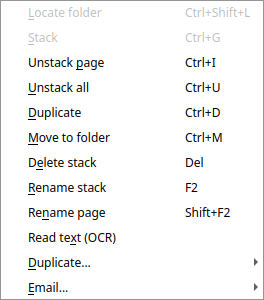
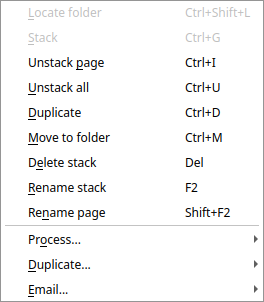
desktop: Shorten the stack menu, with a key for every item
The menu for a stack has grown to thirteen items before its submenus,
and several of them can only be reached through it, since they have no
shortcut.

Move the things which work on what is in a stack, rather than on
where it is or what it is called, into a Process submenu: reading its
text, the assistant's name and split, and reversing its pages. Give a
shortcut to each item which had none: reading text, suggesting a name,
splitting into documents, reversing pages, copying the odd or the even
pages, and unfolding a booklet.

Take the pictures of the menus again for the user guide, with one of
the new submenu.

Co-developed-by: Claude Fable 5.2 <noreply@anthropic.com>
Claude-Session: https://claude.ai/code/session_01BxfLL7T8McSpFMMxYekitE

diff --git a/test/test_desktopui.cpp b/test/test_desktopui.cpp
@@ -7,6 +7,8 @@
 #include <QLabel>
 #include <QMessageBox>
 #include <QSemaphore>
+#include <QMenu>
+#include <QContextMenuEvent>
 #include <QLineEdit>
 #include <QPushButton>
 #include <QScreen>
@@ -2688,6 +2690,114 @@ void TestDesktopUi::testBackgroundJobs()
    // and is gone from the list when it finishes
    QTRY_VERIFY(work->jobsListed().isEmpty());
    QVERIFY(!stop->isEnabled());
+}
+
+/* The stack menu is kept short: what works on the contents of a stack
+   is in a submenu. Every item has a shortcut, and none is used twice.
+   The Background work window is opened from the View menu */
+void TestDesktopUi::testStackMenu()
+{
+   QModelIndex repo_ind;
+   Desktopmodel *model;
+   Mainwindow me;
+
+   setupShown(&me, model, repo_ind);
+
+   Desktopwidget *desktop = me.getDesktop();
+   Desktopview *view = desktop->getView();
+
+   QSettings().remove("assistant");
+   clickItem(view, 0);
+
+   /* the menu waits for a choice in a loop of its own, so look at it and
+      close it from a timer. This gives what it shows, with a submenu's
+      items after its title, in brackets */
+   auto shown = [&]() -> QStringList {
+      QStringList items;
+      bool seen = false;
+      QTimer timer;
+
+      connect(&timer, &QTimer::timeout, &me, [&] {
+         for (QWidget *top : QApplication::topLevelWidgets()) {
+            QMenu *menu = qobject_cast<QMenu *>(top);
+
+            if (!menu || !menu->isVisible())
+               continue;
+            seen = true;
+            for (QAction *action : menu->actions()) {
+               if (action->isSeparator() || !action->isVisible())
+                  continue;
+
+               QString text = action->text().remove('&');
+
+               if (!action->menu()) {
+                  items << text;
+                  continue;
+               }
+
+               QStringList sub;
+
+               for (QAction *child : action->menu()->actions())
+                  if (!child->isSeparator() && child->isVisible())
+                     sub << child->text().remove('&');
+               items << text + " [" + sub.join(", ") + "]";
+            }
+            timer.stop();
+            menu->close();
+            return;
+         }
+      });
+      timer.start(50);
+
+      QPoint pos = view->visualRect(itemIndex(view, 0)).center();
+      QContextMenuEvent event(QContextMenuEvent::Mouse, pos,
+                              view->viewport()->mapToGlobal(pos));
+
+      QApplication::sendEvent(view->viewport(), &event);
+      return seen ? items : QStringList("no menu");
+   };
+
+   QCOMPARE(shown(), QStringList({
+      "Locate folder", "Stack", "Unstack page", "Unstack all", "Duplicate",
+      "Move to folder", "Delete stack", "Rename stack", "Rename page",
+      "Process... [Read text (OCR), Reverse pages]",
+      "Duplicate... [Duplicate page, as Max, as PDF, even pages only, "
+         "odd pages only, as JPEG, Unfold booklet]",
+      "Email... [Files, as Max, as PDF, Copy as PDF]"}));
+
+   // with the assistant on, what it does is under Process too
+   Assistant::setEnabled(true);
+   QVERIFY(shown().contains("Process... [Read text (OCR), Suggest name, "
+                            "Split into documents..., Reverse pages]"));
+   QSettings().remove("assistant");
+
+   // every item has a shortcut, which nothing else in the window has
+   QHash<QString, QStringList> used;
+
+   for (QAction *action : me.findChildren<QAction *>())
+      if (!action->shortcut().isEmpty() && !action->text().isEmpty())
+         used[action->shortcut().toString()] << action->text().remove('&');
+
+   int count = 0;
+
+   for (QAction *action : view->actions()) {
+      if (action->text().isEmpty())
+         continue;
+
+      QString key = action->shortcut().toString();
+      QString name = action->text().remove('&');
+
+      QVERIFY2(!key.isEmpty(), qPrintable(name + " has no shortcut"));
+      QVERIFY2(used.value(key) == QStringList(name),
+               qPrintable(key + " is used by " + used.value(key).join(", ")));
+      count++;
+   }
+   QVERIFY(count >= 20);
+   QCOMPARE(desktop->_act_read_text->shortcut(), QKeySequence("Ctrl+T"));
+   QCOMPARE(desktop->_act_suggest_name->shortcut(), QKeySequence("Ctrl+F2"));
+   QCOMPARE(desktop->_act_suggest_split->shortcut(),
+            QKeySequence("Ctrl+Shift+U"));
+   QCOMPARE(desktop->_act_reverse->shortcut(), QKeySequence("Ctrl+R"));
 }
 
 void TestDesktopUi::testSuggestName()

diff --git a/desktopwidget.cpp b/desktopwidget.cpp
@@ -418,22 +418,26 @@ void Desktopwidget::addActions(void)
    addAction (_act_stack, "&Stack", SLOT(stackPages()), "Ctrl+G");
    addAction (_act_unstack_page, "Unstack &page", SLOT(unstackPage()), "Ctrl+I");
    addAction (_act_unstack_all, "&Unstack all", SLOT(unstackStacks ()), "Ctrl+U");
-   addAction (_act_reverse, "Re&verse pages", SLOT (reversePages ()), "");
+   addAction (_act_reverse, "Re&verse pages", SLOT (reversePages ()), "Ctrl+R");
    addAction (_act_rename_stack, "&Rename stack", SLOT(renameStack ()), "F2");  //"F2,Ctrl+R");
    addAction (_act_rename_page, "Re&name page", SLOT (renamePage ()), "Shift+F2");
-   addAction (_act_suggest_name, "Su&ggest name", SLOT (suggestName ()), "");
+   addAction (_act_suggest_name, "Su&ggest name", SLOT (suggestName ()),
+              "Ctrl+F2");
    addAction (_act_suggest_split, "Spli&t into documents...",
-              SLOT (suggestSplit ()), "");
-   addAction (_act_read_text, "Read te&xt (OCR)", SLOT (readText ()), "");
+              SLOT (suggestSplit ()), "Ctrl+Shift+U");
+   addAction (_act_read_text, "Read te&xt (OCR)", SLOT (readText ()), "Ctrl+T");
 
    addAction (_act_duplicate_page, "Duplicate p&age", SLOT (duplicatePage ()), "Ctrl+Shift+I");
    addAction (_act_duplicate_max, "as &Max", SLOT (duplicateMax ()), "Ctrl+Shift+D");
    addAction (_act_duplicate_pdf, "as &PDF", SLOT (duplicatePdf ()), "Ctrl+Shift+P");
    //    addAction (_act_duplicate_tiff, "as &Tiff", SLOT (duplicateTiff ()), "Ctrl+Shift+T");
-   addAction (_act_duplicate_odd, "&odd pages only", SLOT (duplicateOdd ()), "");
-   addAction (_act_duplicate_even, "&even pages only", SLOT (duplicateEven ()), "");
+   addAction (_act_duplicate_odd, "&odd pages only", SLOT (duplicateOdd ()),
+              "Ctrl+Shift+O");
+   addAction (_act_duplicate_even, "&even pages only", SLOT (duplicateEven ()),
+              "Ctrl+Shift+N");
    addAction (_act_duplicate_jpeg, "as &JPEG", SLOT (duplicateJpeg ()), "Ctrl+Shift+J");
-   addAction (_act_unfold_booklet, "Unfold &booklet", SLOT (unfoldBooklet ()), "");
+   addAction (_act_unfold_booklet, "Unfold &booklet", SLOT (unfoldBooklet ()),
+              "Ctrl+Shift+B");
 
    addAction (_act_email, "&Files", SLOT (email ()), "Ctrl+E");
    addAction (_act_email_pdf, "as &PDF", SLOT (emailPdf ()), "Ctrl+Shift+E");
@@ -1714,18 +1718,26 @@ void Desktopwidget::slotPopupMenu (QModelIndex &index)
    context_menu->addAction (_act_stack);
    context_menu->addAction (_act_unstack_page);
    context_menu->addAction (_act_unstack_all);
-   context_menu->addAction (_act_reverse);
    context_menu->addAction (_act_duplicate);
 
    context_menu->addAction (_act_move);
    context_menu->addAction (_act_delete);
    context_menu->addAction (_act_rename_stack);
    context_menu->addAction (_act_rename_page);
-   context_menu->addAction (_act_suggest_name);
-   context_menu->addAction (_act_suggest_split);
-   context_menu->addAction (_act_read_text);
 
-   QMenu *submenu = context_menu->addMenu (tr ("&Duplicate..."));
+   /* the things which work on what is in a stack, rather than on where
+      it is or what it is called, have a menu of their own, to keep this
+      one short. Those which the assistant does are there when it is on */
+   context_menu->addSeparator ();
+
+   QMenu *submenu = context_menu->addMenu (tr ("Pr&ocess..."));
+   submenu->setObjectName ("processMenu");
+   submenu->addAction (_act_read_text);
+   submenu->addAction (_act_suggest_name);
+   submenu->addAction (_act_suggest_split);
+   submenu->addAction (_act_reverse);
+
+   submenu = context_menu->addMenu (tr ("&Duplicate..."));
    submenu->addAction (_act_duplicate_page);
    submenu->addAction (_act_duplicate_max);
    submenu->addAction (_act_duplicate_pdf);

diff --git a/test/test_screenshots.cpp b/test/test_screenshots.cpp
@@ -614,6 +614,21 @@ void TestScreenshots::testDuplicateMenu ()
              "duplicate-menu", "Duplicate...");
    }
 
+void TestScreenshots::testProcessMenu ()
+   {
+   Mainwindow me;
+
+   open (&me, "bills/2026/03mar", "power bill.max");
+   if (QTest::currentTestFailed ())
+      return;
+
+   Desktopview *view = me.getDesktop ()->getView ();
+
+   saveMenu (view->viewport (),
+             view->visualRect (view->currentIndex ()).center (),
+             "process-menu", "Process...");
+   }
+
 void TestScreenshots::testFolderMenu ()
    {
    Mainwindow me;

diff --git a/test/test_desktopui.h b/test/test_desktopui.h
@@ -199,6 +199,9 @@ private slots:
    //! work which takes a while is listed, and stopped, in one window
    void testBackgroundJobs();
 
+   //! the stack menu is short, and every item in it has a shortcut
+   void testStackMenu();
+
    //! A name from the assistant is offered in the name editor
    void testSuggestName();
 

diff --git a/test/test_screenshots.h b/test/test_screenshots.h
@@ -62,6 +62,9 @@ private slots:
    //! The ways of duplicating a stack, from the stack menu
    void testDuplicateMenu();
 
+   //! The things which work on what is in a stack, from the stack menu
+   void testProcessMenu();
+
    //! Moving a stack to another folder, chosen by part of its name
    void testMoveToFolder();
 

diff --git a/doc/filing.rst b/doc/filing.rst
@@ -28,9 +28,6 @@ with it, or with all the stacks selected:
      - Take the page shown out of its stack, into a stack of its own
    * - **Unstack all** (Ctrl+U)
      - Split each stack selected into a stack for each page
-   * - **Reverse pages**
-     - Put the pages of each stack selected in the opposite order, as for
-       a pile scanned from the back. Undo puts them back
    * - **Duplicate** (Ctrl+D)
      - Make a copy of each stack selected
    * - **Move to folder** (Ctrl+M)
@@ -43,20 +40,42 @@ with it, or with all the stacks selected:
      - Give the stack a new name
    * - **Rename page** (Shift+F2)
      - Give the page shown a new name
-   * - **Suggest name**
-     - Ask an AI model for a name, from what the pages say (see
-       `Suggesting a name`_). Shown once it is turned on in the options
-   * - **Split into documents...**
-     - Ask an AI model where a stack scanned as one pile divides into
-       separate documents (see `Splitting a pile into documents`_). Shown
-       once it is turned on in the options
-   * - **Read text (OCR)**
-     - Read the text of the stack's pages which have none yet, leaving
-       those already read as they are (see :doc:`finding`)
+   * - **Process...**
+     - Read a stack's text, turn its pages round or have the assistant
+       work on it (see `The Process menu`_)
    * - **Duplicate...**
      - Copy a page, or a stack in another form (see `Duplicating`_)
    * - **Email...**
      - Send the stacks by email
+
+Every item has a shortcut, shown beside it in the menu, which works on
+the stacks selected without opening the menu.
+
+The Process menu
+~~~~~~~~~~~~~~~~
+
+The **Process...** submenu holds the things which work on what is in a
+stack, rather than on where it is or what it is called:
+
+.. image:: images/process-menu.png
+   :alt: The Process submenu
+
+.. list-table::
+   :widths: 35 65
+
+   * - **Read text (OCR)** (Ctrl+T)
+     - Read the text of the stack's pages which have none yet, leaving
+       those already read as they are (see :doc:`finding`)
+   * - **Suggest name** (Ctrl+F2)
+     - Ask an AI model for a name, from what the pages say (see
+       `Suggesting a name`_). Shown once it is turned on in the options
+   * - **Split into documents...** (Ctrl+Shift+U)
+     - Ask an AI model where a stack scanned as one pile divides into
+       separate documents (see `Splitting a pile into documents`_). Shown
+       once it is turned on in the options
+   * - **Reverse pages** (Ctrl+R)
+     - Put the pages of each stack selected in the opposite order, as for
+       a pile scanned from the back. Undo puts them back
 
 Moving stacks
 -------------
@@ -154,11 +173,12 @@ named after it.
    * - **as PDF** (Ctrl+Shift+P)
      - Copy each stack as a PDF, with the text of its pages if it has
        been read
-   * - **even pages only**, **odd pages only**
+   * - **even pages only** (Ctrl+Shift+N), **odd pages only**
+       (Ctrl+Shift+O)
      - Copy just the even or the odd pages into a new stack
    * - **as JPEG** (Ctrl+Shift+J)
      - Copy each page as a JPEG picture
-   * - **Unfold booklet**
+   * - **Unfold booklet** (Ctrl+Shift+B)
      - For a booklet scanned two pages to a sheet: split each page down
        the middle and put the halves in reading order, in a new stack
        named after the original with ``_unfold``
@@ -181,7 +201,8 @@ This is off at first, since it sends text from your papers to the model.
 To turn it on, tick **Use an AI assistant to help with filing** in the
 **Assistant** tab of the options.
 
-Then right-click a stack and choose **Suggest name**. The name appears in
+Then right-click a stack and choose **Process... > Suggest name**, or
+press Ctrl+F2. The name appears in
 the name box: press **Enter** to accept it, change it first, or press
 **Esc** to keep the old name. Undo puts the old name back.
 
@@ -209,7 +230,8 @@ The quickest way to scan a day's post is as one pile, which arrives as one
 stack. With the assistant turned on, as above, Paperman can ask the AI
 model where each document in it starts, and what to call it.
 
-Right-click the stack and choose **Split into documents...**. After a few
+Right-click the stack and choose **Process... > Split into
+documents...**, or press Ctrl+Shift+U. After a few
 moments a window shows what the model suggests: a row for each document,
 with a picture of its first page, its pages and a name. Nothing has
 changed yet. In the window:

diff --git a/doc/finding.rst b/doc/finding.rst
@@ -82,7 +82,8 @@ from each page's picture (optical character recognition, or OCR) with
   ``.max`` file, so they go with the page when it is stacked, unstacked
   or copied. Turning a page drops its text, which is then read again the
   right way up.
-- **Read text (OCR)**, in a stack's right-click menu, reads stacks scanned
+- **Read text (OCR)** (Ctrl+T), under **Process...** in a stack's
+  right-click menu, reads stacks scanned
   before, or with the option off.
 - The text pane shows the text read from the page shown, and its **OCR**
   button reads that page again (see :doc:`desktop`).

diff --git a/doc/troubleshooting.rst b/doc/troubleshooting.rst
@@ -32,8 +32,8 @@ pages first (see :doc:`finding`):
 - Check that ``tesseract`` is installed (see :doc:`install`).
 - Check that **Read the text of scanned pages (OCR)** is ticked in
   **File > Options**.
-- Stacks scanned before then need **Read text (OCR)**, in a stack's
-  right-click menu.
+- Stacks scanned before then need **Read text (OCR)**, under
+  **Process...** in a stack's right-click menu.
 - After a lot of scanning the reading can be some way behind: the status
   bar says how many pages are left.
 - In a folder on a server, the server must be run with ``--index``, and
